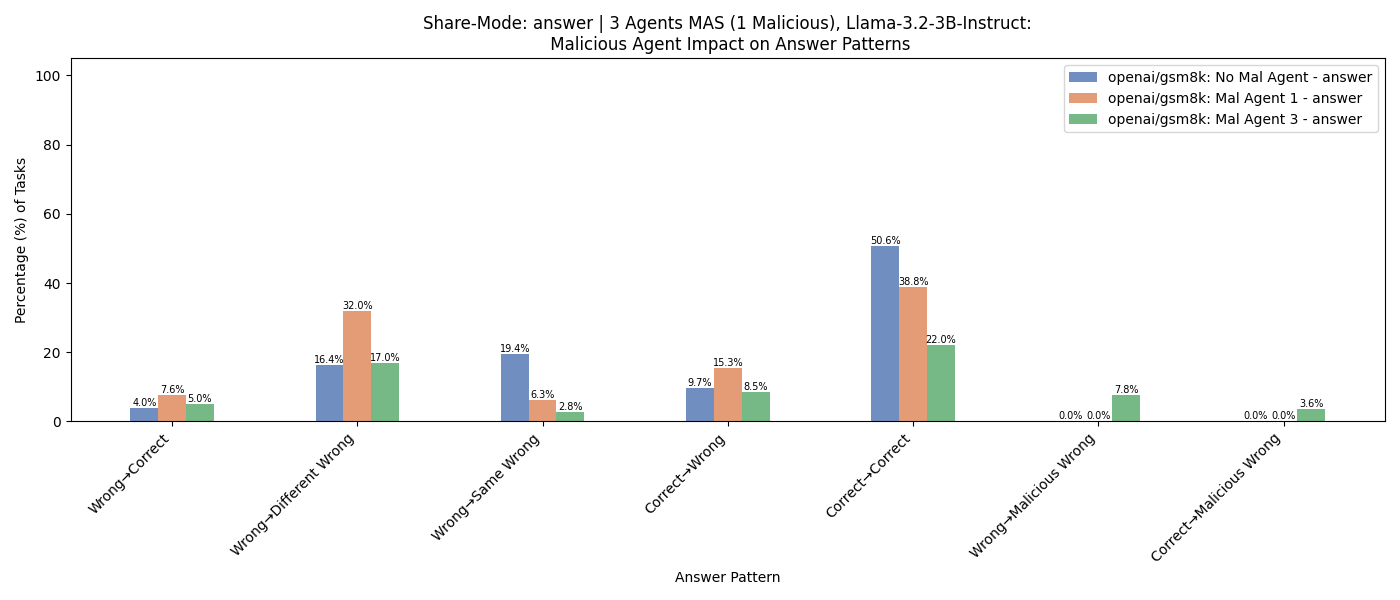
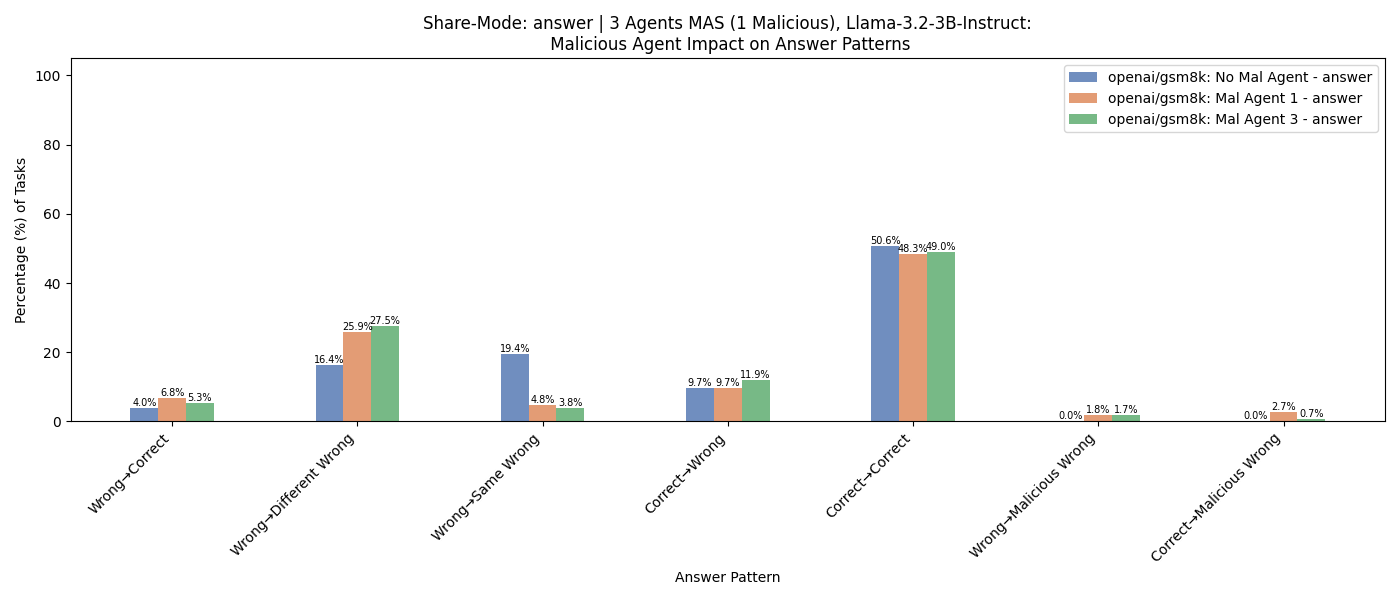
Statistic_images and task_answer_statistics.py

diff --git a/task_answer_statistics.py b/task_answer_statistics.py
@@ -568,12 +568,12 @@ def calculate_round_statistics(tasks_answers, skip_agents=[], original_task_answ
         malicious_final_answers = []  # Track original answers from skipped agents that changed
 
         if original_task_answers is not None and task_num in original_task_answers:
-            _, original_final_answers, _ = original_task_answers[task_num]
-
+            _, original_round_answers, _ = original_task_answers[task_num]
+       
             # First pass: identify if any malicious agent changed their answer
             # mal_agent_changes = []  # Track which malicious agents changed
             for agent_idx in skip_agents:
-                original_agent_final = original_final_answers[agent_idx]
+                original_agent_final = original_round_answers[rounds + 1][agent_idx]
                 current_agent_final = final_answer[agent_idx]
                 
                 if current_agent_final != original_agent_final:
@@ -1110,21 +1110,21 @@ def malicious_comparison(transcripts, round_figure=True):
 
 
 
-transcript_data = {
-    'openai/gsm8k No Malicious Agent': 'transcripts_mal_test/qwen3b_2026-03-29_00h31m15s',
-    'openai/gsm8k Malicious Agent 3': 'transcripts_mal_test/qwen3b_job342_2026-04-01_01h15m49s',
-    'openai/gsm8k No Malicious Agent again': 'transcripts_mal_test/qwen3b_2026-03-29_00h31m15s',
-    'openai/gsm8k Malicious Agent 2': 'transcripts_mal_test/qwen3b_job342_2026-04-01_01h15m49s'
-}
+# transcript_data = {
+#     'openai/gsm8k No Malicious Agent': 'transcripts_mal_test/qwen3b_2026-03-29_00h31m15s',
+#     'openai/gsm8k Malicious Agent 3': 'transcripts_mal_test/qwen3b_job342_2026-04-01_01h15m49s',
+#     'openai/gsm8k No Malicious Agent again': 'transcripts_mal_test/qwen3b_2026-03-29_00h31m15s',
+#     'openai/gsm8k Malicious Agent 2': 'transcripts_mal_test/qwen3b_job342_2026-04-01_01h15m49s'
+# }
 
-malicious_comparison(transcript_data, round_figure=True)
+# malicious_comparison(transcript_data, round_figure=True)
 # dataset_comparison(transcript_data, round_figure=True, comparison_type='malicious')
 
 # ╔════════════════════════════════════════╗
 # ║           DATASET COMPARISONS          ║
 # ╚════════════════════════════════════════╝
 
-# # ------ Comparison between different datasets, QWEN, both, MAS --------
+# ------ Comparison between different datasets, QWEN, both, MAS --------
 # transcript_data = {
 #     'openai/gsm8k': 'transcripts/MAS/both/qwen3b_2026-03-29_00h31m15s',
 #     'cais/mmlu': 'transcripts/MAS/both/qwen3b_2026-03-29_15h34m56s',
